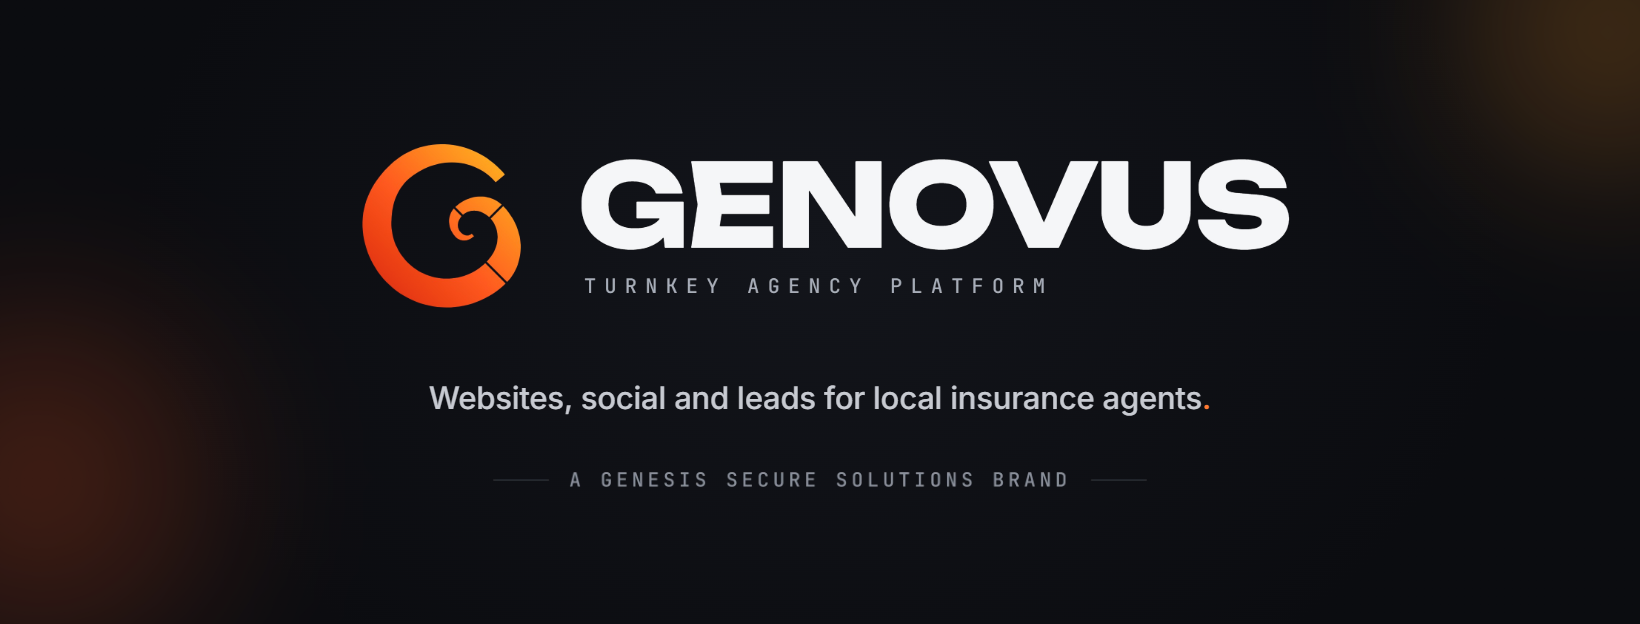
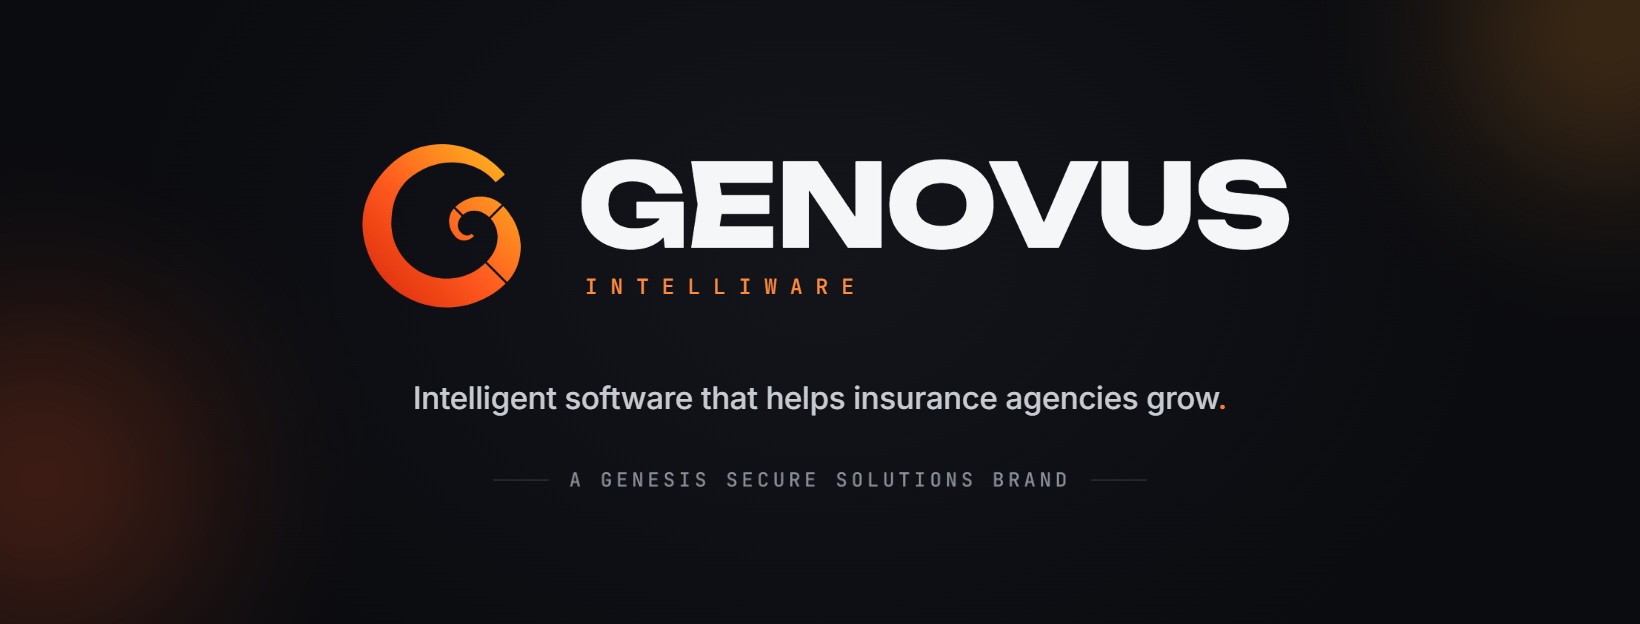
Genovus Intelliware Facebook cover: INTELLIWARE in the old Turnkey Agency Platform slot, new tagline; October cover kept as -v1

Changed region(s): [[0.2488, 0.609, 0.7463, 0.6699], [0.3732, 0.4263, 0.5287, 0.4872], [0.5909, 0.4263, 0.622, 0.4872]]

diff --git a/design/social-kit/genovus/cover-intelliware.html b/design/social-kit/genovus/cover-intelliware.html
@@ -1,0 +1,30 @@
+<!doctype html>
+<html><head><meta charset="utf-8">
+<link href="https://fonts.googleapis.com/css2?family=Inter:wght@500&family=JetBrains+Mono:wght@500&display=swap" rel="stylesheet">
+<style>
+/* Genovus Intelliware Facebook cover, 1640x624 (2x the 820x312 desktop display). Phones show about the centre
+   1120px, so everything sits inside x 260-1380. The G mark and wordmark are cropped from the Genovus logo file
+   (lockup-mark.png: lockup.png with its old "Turnkey Agency Platform" line removed); INTELLIWARE and the tagline
+   are set in type, in the slot and tracking the old line used. */
+*{box-sizing:border-box;margin:0}
+html,body{width:1640px;height:624px;overflow:hidden;background:#0b0c10}
+.c{position:relative;width:1640px;height:624px;background:radial-gradient(60% 120% at 50% 40%,#13151b 0%,#0b0c10 70%);overflow:hidden}
+.glow{position:absolute;border-radius:50%;filter:blur(60px);opacity:.28}
+.g1{width:520px;height:520px;left:-220px;top:220px;background:radial-gradient(circle,#ff5a20 0%,transparent 70%)}
+.g2{width:460px;height:460px;right:-200px;top:-200px;background:radial-gradient(circle,#ff9a2a 0%,transparent 70%)}
+.stack{position:absolute;left:260px;width:1120px;top:0;height:624px;display:flex;flex-direction:column;align-items:center;justify-content:center}
+.lock{position:relative;width:1000px}
+.lockup{width:1000px;height:auto;display:block;mix-blend-mode:lighten}
+.sub{position:absolute;left:26.5%;top:69.2%;font:500 21px/1 'JetBrains Mono',ui-monospace,monospace;letter-spacing:.62em;color:#ff8a3c}
+.tag{margin-top:34px;font:500 31px/1.3 Inter,Arial,sans-serif;color:#c7cad1;letter-spacing:-.2px}
+.tag b{color:#ff7a32;font-weight:500}
+.brand{margin-top:42px;width:700px;height:auto;display:block;mix-blend-mode:lighten}
+</style></head>
+<body><div class="c">
+<div class="glow g1"></div><div class="glow g2"></div>
+<div class="stack">
+  <div class="lock"><img class="lockup" src="lockup-mark.png" alt=""><div class="sub">INTELLIWARE</div></div>
+  <div class="tag">Intelligent software that helps insurance agencies grow<b>.</b></div>
+  <img class="brand" src="brandline.png" alt="">
+</div>
+</div></body></html>
